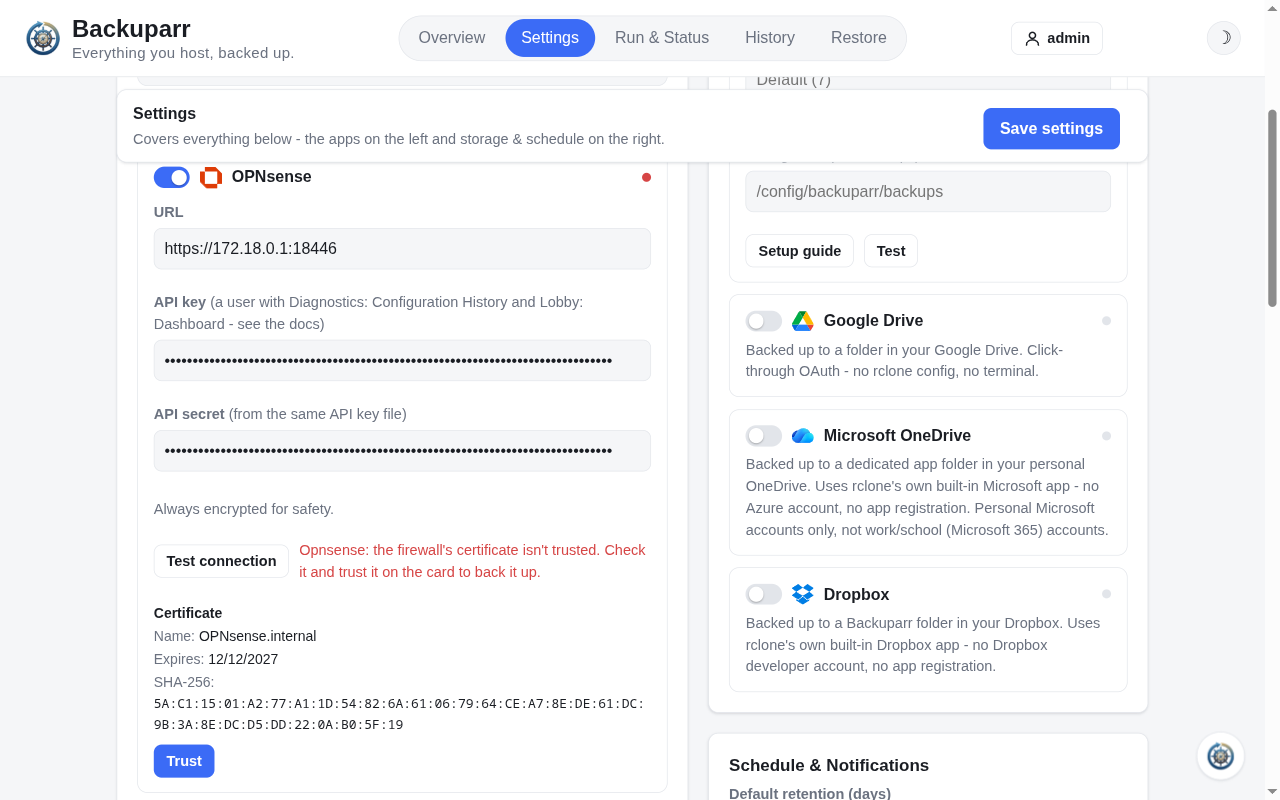
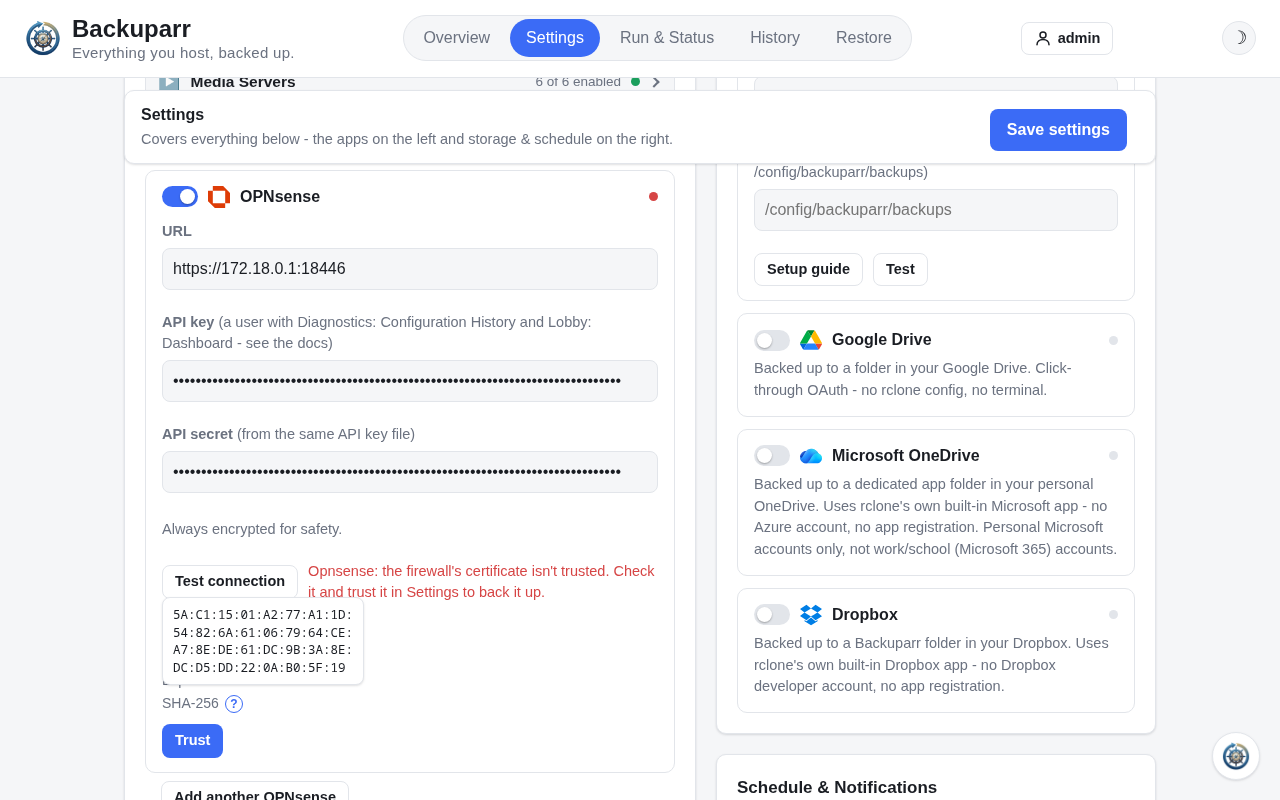
Show certificate fingerprints in a tooltip (#189)
The SHA-256 fingerprint on the Backuparr card's HTTPS section and in a
self-signed certificate's details on an app's card (Pi-hole, OPNsense,
pfSense, UniFi, Home Assistant, Unraid) moves into a tooltip on a ? next
to SHA-256, like the help next to Prowlarr's Discover services. It shows on
hover or focus (a tap on a phone), as four rows of 8 bytes, lined up with
its line so it stays on screen at phone width; a screen reader reads it in
full. Docs and the OPNsense certificate screenshot follow.

diff --git a/webui/static/app.js b/webui/static/app.js
@@ -861,7 +861,7 @@ function showHttpsState() {
   document.getElementById("https-summary").textContent = s.own_certificate
     ? `HTTPS on port ${s.port}, with your certificate (until ${until}).`
     : `HTTPS on port ${s.port}, with a self-signed certificate (until ${until}).`;
-  document.getElementById("https-fingerprint").textContent = s.fingerprint;
+  setFingerprintTip(document.getElementById("https-fingerprint"), s.fingerprint);
   const certError = document.getElementById("https-cert-error");
   certError.textContent = s.certificate_error ? `Your certificate isn't used: ${s.certificate_error}.` : "";
   certError.classList.toggle("hidden", !s.certificate_error);
@@ -2160,13 +2160,31 @@ function formatFingerprint(sha256) {
   return sha256.toUpperCase().match(/.{2}/g).join(":");
 }
 
+// A SHA-256 fingerprint sits in a tooltip on its "?" (#189): shown on hover,
+// or on focus (a tap on a phone), and read out in full by a screen reader.
+// The tooltip shows it as four rows of 8 bytes, easy to compare in chunks.
+function setFingerprintTip(tip, fingerprint) {
+  tip.dataset.tip = fingerprint.match(/(?:[0-9A-F]{2}:?){1,8}/gi).join("\n");
+  tip.setAttribute("aria-label", `SHA-256 fingerprint ${fingerprint}`);
+}
+
+function fingerprintTip(fingerprint) {
+  const tip = document.createElement("span");
+  tip.className = "help-tip help-tip-fingerprint";
+  tip.tabIndex = 0;
+  tip.setAttribute("role", "img");
+  tip.textContent = "?";
+  setFingerprintTip(tip, fingerprint);
+  return tip;
+}
+
 function certificateDetails(title, cert) {
   const box = document.createElement("div");
   box.className = "cert-details";
   const heading = document.createElement("strong");
   heading.textContent = title;
   box.appendChild(heading);
-  const rows = [["Name", cert.subject], ["Expires", new Date(cert.not_after).toLocaleDateString()], ["SHA-256", formatFingerprint(cert.sha256)]];
+  const rows = [["Name", cert.subject], ["Expires", new Date(cert.not_after).toLocaleDateString()]];
   rows.forEach(([label, value]) => {
     const line = document.createElement("div");
     const name = document.createElement("span");
@@ -2174,10 +2192,16 @@ function certificateDetails(title, cert) {
     name.textContent = `${label}: `;
     const text = document.createElement("span");
     text.textContent = value;
-    if (label === "SHA-256") text.className = "fingerprint";
     line.append(name, text);
     box.appendChild(line);
   });
+  const line = document.createElement("div");
+  line.className = "cert-fingerprint";
+  const name = document.createElement("span");
+  name.className = "muted";
+  name.textContent = "SHA-256";
+  line.append(name, fingerprintTip(formatFingerprint(cert.sha256)));
+  box.appendChild(line);
   return box;
 }
 

diff --git a/webui/static/style.css b/webui/static/style.css
@@ -747,6 +747,21 @@ input:focus, select:focus, textarea:focus {
   text-align: left;
 }
 
+/* A certificate fingerprint's tooltip (#189): its "?" sits near the start of
+   a line, so the tooltip lines up with that line, within the card. */
+.cert-fingerprint, .https-fingerprint { position: relative; }
+.help-tip-fingerprint { position: static; }
+.help-tip-fingerprint:hover::after,
+.help-tip-fingerprint:focus::after {
+  left: 0;
+  transform: none;
+  width: max-content;
+  max-width: 100%;
+  white-space: pre;
+  font-family: ui-monospace, SFMono-Regular, Menlo, Consolas, monospace;
+  font-size: 12.5px;
+}
+
 .test-result {
   font-size: 14.5px;
   color: var(--text-muted);
@@ -994,7 +1009,7 @@ input:focus, select:focus, textarea:focus {
 /* A self-signed certificate to trust (#153), and links to a card from a failure. */
 .cert-trust { margin-top: 10px; display: grid; gap: 10px; }
 .cert-details { display: grid; gap: 2px; font-size: 14px; overflow-wrap: anywhere; }
-.cert-details .fingerprint { font-family: ui-monospace, SFMono-Regular, Menlo, Consolas, monospace; font-size: 13px; }
+.cert-details .cert-fingerprint { display: flex; align-items: center; gap: 6px; }
 .card-link { margin-left: 8px; }
 
 /* An app restored by hand (#151): its download and steps on the Restore tab. */
@@ -1140,7 +1155,7 @@ code {
 .https-settings .hint { margin: 0 0 8px; }
 .https-settings .hint.warn { color: var(--warn); }
 .https-settings .toggle-field { margin: 4px 0 4px; }
-.https-settings #https-fingerprint { font-family: ui-monospace, SFMono-Regular, Menlo, monospace; font-size: 12px; word-break: break-all; }
+.https-fingerprint { display: flex; align-items: center; gap: 6px; }
 .ha-integration .toggle-field { margin-bottom: 0; }
 .ha-integration #ha-token-field { margin-top: 12px; }
 .ha-integration #ha-token { font-family: ui-monospace, SFMono-Regular, Menlo, monospace; font-size: 13px; }

diff --git a/webui/templates/index.html b/webui/templates/index.html
@@ -106,7 +106,7 @@
                    closes plain HTTP straight away, not on Save. #}
                 <div class="https-settings">
                   <p class="hint" id="https-summary"></p>
-                  <p class="hint https-fingerprint">SHA-256 <code id="https-fingerprint"></code></p>
+                  <p class="hint https-fingerprint">SHA-256 <span class="help-tip help-tip-fingerprint" id="https-fingerprint" tabindex="0" role="img">?</span></p>
                   <p class="hint warn hidden" id="https-cert-error"></p>
                   <label class="field toggle-field">
                     <span class="switch"><input type="checkbox" id="https-only"><span class="slider"></span></span>

diff --git a/docs/apps/opnsense.md b/docs/apps/opnsense.md
@@ -37,13 +37,14 @@ configuration in use.
 ## The certificate
 
 OPNsense's web UI uses a self-signed certificate. The first **Test
-connection** says it isn't trusted and shows it: its name, expiry and SHA-256
-fingerprint. OPNsense prints the same fingerprint on its console (`HTTPS:
+connection** says it isn't trusted and shows it: its name and expiry, and its
+SHA-256 fingerprint when you point at the **?** next to SHA-256 (or tap it).
+OPNsense prints the same fingerprint on its console (`HTTPS:
 SHA256 ...`) and under **System > Trust > Certificates**. If they match,
 click **Trust**, then **Save**. From then on Backuparr accepts only that
 certificate.
 
-![OPNsense card: Test connection says the certificate isn't trusted and shows its name, expiry and SHA-256 fingerprint, with a Trust button]({{ '/screenshots/opnsense-certificate.png' | relative_url }})
+![OPNsense card: Test connection says the certificate isn't trusted, the ? next to SHA-256 shows its fingerprint in four rows, and a Trust button below]({{ '/screenshots/opnsense-certificate.png' | relative_url }})
 
 If the certificate changes (OPNsense made a new one, or you replaced it),
 backups stop with "The firewall's certificate changed. Check it and trust the

diff --git a/docs/apps/unraid.md b/docs/apps/unraid.md
@@ -59,12 +59,13 @@ with that in mind.
 
 ## The certificate
 
-With **Use SSL/TLS** set to **Yes** (**Settings > Management Access**),
-Unraid serves its web UI with a self-signed certificate. The first **Test
-connection** shows it (name, expiry, SHA-256 fingerprint): click **Trust**
-and **Save**. It works as for [OPNsense](opnsense.md#the-certificate): a
-changed certificate stops backups until you trust the new one. A
-`myunraid.net` certificate is from a trusted CA and needs nothing.
+With **Use SSL/TLS** set to **Yes** (**Settings > Management Access**), Unraid
+serves its web UI with a self-signed certificate. The first **Test
+connection** shows it (name and expiry, and the SHA-256 fingerprint on the
+**?** next to SHA-256): click **Trust** and **Save**. It works as for
+[OPNsense](opnsense.md#the-certificate): a changed certificate stops backups
+until you trust the new one. A `myunraid.net` certificate is from a trusted CA
+and needs nothing.
 
 ## Restoring
 

diff --git a/docs/apps/pfsense.md b/docs/apps/pfsense.md
@@ -41,11 +41,12 @@ is reported once and not retried.
 
 ## The certificate
 
-pfSense's web UI uses a self-signed certificate. The first **Test
-connection** shows it (name, expiry, SHA-256 fingerprint); compare it with
-**System > Certificates** in pfSense, then click **Trust** and **Save**. It
-works as for [OPNsense](opnsense.md#the-certificate): a changed certificate
-stops backups until you trust the new one, and the failure links to the card.
+pfSense's web UI uses a self-signed certificate. The first **Test connection**
+shows it (name and expiry, and the SHA-256 fingerprint on the **?** next to
+SHA-256); compare it with **System > Certificates** in pfSense, then click
+**Trust** and **Save**. It works as for
+[OPNsense](opnsense.md#the-certificate): a changed certificate stops backups
+until you trust the new one, and the failure links to the card.
 
 ## Restoring
 

diff --git a/docs/apps/unifi.md b/docs/apps/unifi.md
@@ -73,10 +73,11 @@ never retries, and says so when it's refused.
 ## The certificate
 
 UniFi uses a self-signed certificate unless you've given it your own. The
-first **Test connection** shows it (name, expiry, SHA-256 fingerprint):
-click **Trust** and **Save**. It works as for
-[OPNsense](opnsense.md#the-certificate): a changed certificate stops backups
-until you trust the new one. A certificate from a trusted CA needs nothing.
+first **Test connection** shows it (name and expiry, and the SHA-256
+fingerprint on the **?** next to SHA-256): click **Trust** and **Save**. It
+works as for [OPNsense](opnsense.md#the-certificate): a changed certificate
+stops backups until you trust the new one. A certificate from a trusted CA
+needs nothing.
 
 ## Restoring
 

diff --git a/CHANGELOG.md b/CHANGELOG.md
@@ -27,6 +27,7 @@ format is based on [Keep a Changelog](https://keepachangelog.com/en/1.1.0/).
 
 ### Changed
 
+- Settings shows a certificate's SHA-256 fingerprint in a tooltip on the ? next to SHA-256, as four rows of 8 bytes, on the Backuparr card and on the cards of apps with a self-signed certificate (#189).
 - The Restore tab lists Profilarr too: picking it shows a Download button (decrypted), the steps for restoring it in Profilarr and a link to its docs page, in place of Restore (#151).
 - The web server is now Hypercorn instead of Waitress, to serve HTTP and HTTPS from one process (#177).
 - Over HTTPS the login cookie is Secure and has its own name, so signing in over HTTP and HTTPS works side by side (#177).

diff --git a/docs/security.md b/docs/security.md
@@ -30,7 +30,8 @@ Backuparr answers on two ports:
 
 On first start Backuparr makes a **self-signed certificate**, so your browser
 warns the first time: check that the SHA-256 fingerprint it shows matches the
-one on the Backuparr card (**Settings**, **Server**), then continue. The
+one on the Backuparr card (**Settings**, **Server**: point at the **?** next to
+SHA-256, or tap it), then continue. The
 certificate lasts 825 days, the longest Apple devices accept, and is renewed
 30 days before it runs out with the same key, so Home Assistant's
 [integration](home-assistant.md) keeps trusting it. It's in

diff --git a/docs/home-assistant.md b/docs/home-assistant.md
@@ -28,7 +28,7 @@ later.
    `https://192.168.1.10:8991`) and the token.
 4. Home Assistant shows the fingerprint of Backuparr's
    [certificate](security.md#https). Compare it with the one on the Backuparr
-   card and submit if they match.
+   card (the **?** next to SHA-256) and submit if they match.
 
 It adds a Backuparr device with an **All backups** problem sensor, one for
 each app and for Backuparr's own backup, a **Failed backups** count and,
